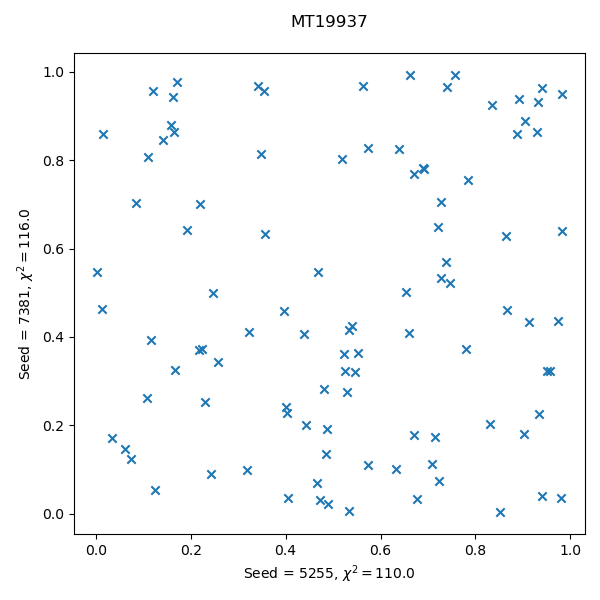
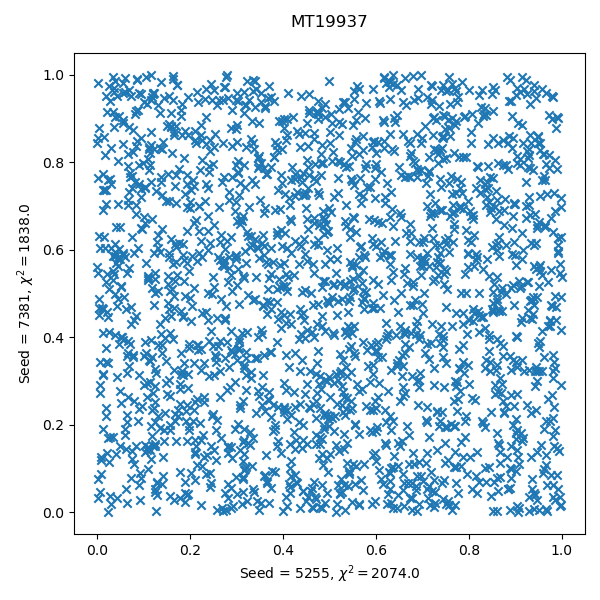
Increased sample size
Added pearson correlation coefficient calculations and graph

diff --git a/RNG_comp.py b/RNG_comp.py
@@ -35,29 +35,33 @@ timearr = np.zeros(5)
 rng = Generator(PCG64(seed=6))
 # Pseudo-random, uniform range between 0-1 with defined seed
 x1starttime = perf_counter()
-x1 = rng.uniform(0, 1, 100)
+x1 = rng.uniform(0, 1, 2000)
 x1endtime = perf_counter()
 timearr[0] = x1endtime-x1starttime
 x15 = np.roll(x1, 10)  # Move each value of x1 10 spaces along
-pcg64chi1 = chisquare_test(x1,100)
+pcg64chi1 = chisquare_test(x1,2000)
 
 # Bitgenerator PCG64 (default for numpy), with seed 15832
 rng = Generator(PCG64(seed=15832))
 # Pseudo-random, uniform range between 0-1 with defined seed
 x2starttime = perf_counter()
-x2 = rng.uniform(0, 1, 100)
+x2 = rng.uniform(0, 1, 2000)
 x2endtime = perf_counter()
 timearr[1] = x2endtime-x2starttime
 x25 = np.roll(x2, 10)
-pcg64chi2 = chisquare_test(x2,100)
-pcg64chi3 = chisquare_test(x15,100)
-pcg64chi4 = chisquare_test(x25,100)
+pcg64chi2 = chisquare_test(x2,2000)
+pcg64chi3 = chisquare_test(x15,2000)
+pcg64chi4 = chisquare_test(x25,2000)
+correl1 = np.around(np.correlate(x1, x15)[0],2)
+correl2 = np.around(np.correlate(x2, x25)[0],2)
+pearsoncoeff1 = np.around(np.corrcoef(x1,x15)[0,1],5)
+pearsoncoeff2 = np.around(np.corrcoef(x2,x25)[0,1],5)
 
 # Seed Comparison
 plt.figure(figsize=(6, 6))
 plt.scatter(x1, x2, marker='x')
-plt.xlabel('Seed = 6, $\u03C7^2 = {}$'.format(pcg64chi1))
-plt.ylabel('Seed = 15832, $\u03C7^2 = {}$'.format(pcg64chi2))
+plt.xlabel('Seed = 6, $\chi^2 = {}$'.format(pcg64chi1))
+plt.ylabel('Seed = 15832, $\chi^2 = {}$'.format(pcg64chi2))
 plt.title('PCG64\n')
 plt.tight_layout()
 plt.savefig(fname='IMAGES/PCG64-6-15832')
@@ -67,7 +71,8 @@ plt.figure(figsize=(6, 6))
 plt.scatter(x1, x15, marker='x')
 plt.xlabel('$x_n$')
 plt.ylabel('$x_{n+10}$')
-plt.title('PCG64, seed = 6\n Autocorrelation = {}, $\u03C7^2 = {}$'.format(np.correlate(x1, x15), pcg64chi1))
+plt.suptitle('PCG64, seed = 6')
+plt.title(r'Cross-correlation $\approx %1.2f$, $\chi^2 \approx %s, \rho_{XY}\approx %1.4f$' %(correl1, pcg64chi1, pearsoncoeff1), fontsize = 10)
 plt.tight_layout()
 plt.savefig(fname='IMAGES/PCG64-6')
 
@@ -76,7 +81,8 @@ plt.figure(figsize=(6, 6))
 plt.scatter(x2, x25, marker='x')
 plt.xlabel('$x_n$')
 plt.ylabel('$x_{n+10}$')
-plt.title('PCG64, seed = 15832\n Autocorrelation = {}, $\u03C7^2 = {}$'.format(np.correlate(x2, x25), pcg64chi2))
+plt.suptitle('PCG64, seed = 15832')
+plt.title(r'Cross-correlation $\approx %1.2f$, $\chi^2 \approx %s, \rho_{XY}\approx %1.4f$' %(correl2, pcg64chi2, pearsoncoeff2), fontsize = 10)
 plt.tight_layout()
 plt.savefig(fname='IMAGES/PCG64-15832')
 
@@ -88,17 +94,17 @@ plt.savefig(fname='IMAGES/PCG64-15832')
 rng = Generator(MT19937(6))
 # Pseudo-random, uniform range between 0-1 with defined seed
 y1starttime = perf_counter()
-y1 = rng.uniform(0, 1, 100)
+y1 = rng.uniform(0, 1, 2000)
 y1endtime = perf_counter()
 timearr[2] = y1endtime-y1starttime
-mt19937chi1 = chisquare_test(y1,100)
+mt19937chi1 = chisquare_test(y1,2000)
 
 # Different Generator - Same seed Comparison
 plt.figure(figsize=(6, 6))
 plt.scatter(x1, y1, marker='x')
-plt.xlabel('PCG64, seed = 6, $\u03C7^2 = {}$'.format(pcg64chi1))
-plt.ylabel('MT19937, seed = 6, $\u03C7^2 = {}$'.format(mt19937chi1))
-plt.title('PCG64-MT19937-6')
+plt.xlabel('PCG64, seed = 6, $\chi^2 = {}$'.format(pcg64chi1))
+plt.ylabel('MT19937, seed = 6, $\chi^2 = {}$'.format(mt19937chi1))
+plt.title('PCG64-MT19937-6\n')
 plt.tight_layout()
 plt.savefig(fname='IMAGES/PCG64-MT19937-6')
 
@@ -106,31 +112,35 @@ plt.savefig(fname='IMAGES/PCG64-MT19937-6')
 rng = Generator(MT19937(5255))
 # Pseudo-random, uniform range between 0-1 with defined seed
 y1starttime = perf_counter()
-y1 = rng.uniform(0, 1, 100)
+y1 = rng.uniform(0, 1, 2000)
 y1endtime = perf_counter()
 timearr[3]=y1endtime-y1starttime
 y15 = np.roll(y1, 10)
-mt19937chi1 = chisquare_test(y1,100)
+mt19937chi1 = chisquare_test(y1,2000)
 
 # Bitgenerator MT19937 (default for numpy), with seed 7381
 rng = Generator(MT19937(7381))
 # Pseudo-random, uniform range between 0-1 with defined seed
 y2starttime = perf_counter()
-y2 = rng.uniform(0, 1, 100)
+y2 = rng.uniform(0, 1, 2000)
 y2endtime = perf_counter()
 timearr[4] = y2endtime-y2starttime
 y25 = np.roll(y2, 10)
-mt19937chi2 = chisquare_test(y2,100)
-mt19937chi3 = chisquare_test(y15,100)
-mt19937chi4 = chisquare_test(y25,100) 
-# for validation that chi squared 
-#does not change with shifting values
+mt19937chi2 = chisquare_test(y2,2000)
+mt19937chi3 = chisquare_test(y15,2000)
+mt19937chi4 = chisquare_test(y25,2000) 
+correl3 = np.around(np.correlate(y1, y15)[0],2)
+correl4 = np.around(np.correlate(y2, y25)[0],2)
+pearsoncoeff3 = np.around(np.corrcoef(y1,y15)[0,1],5)
+pearsoncoeff4 = np.around(np.corrcoef(y2,y25)[0,1],5)
+
+
 
 # Seed Comparison
 plt.figure(figsize=(6, 6))
 plt.scatter(y1, y2, marker='x')
-plt.xlabel('Seed = 5255, $\u03C7^2 = {}$'.format(mt19937chi1))
-plt.ylabel('Seed = 7381, $\u03C7^2 = {}$'.format(mt19937chi2))
+plt.xlabel('Seed = 5255, $\chi^2 = {}$'.format(mt19937chi1))
+plt.ylabel('Seed = 7381, $\chi^2 = {}$'.format(mt19937chi2))
 plt.title('MT19937\n')
 plt.tight_layout()
 plt.savefig(fname='IMAGES/MT19937-5525-7381')
@@ -140,7 +150,8 @@ plt.figure(figsize=(6, 6))
 plt.scatter(y1, y15, marker='x')
 plt.xlabel('$x_n$')
 plt.ylabel('$x_{n+10}$')
-plt.title('MT19937, seed = 5255\n Autocorrelation = {}, $\u03C7^2 = {}$'.format(np.correlate(y1, y15), mt19937chi1))
+plt.suptitle('MT19937, seed = 5255')
+plt.title(r'Cross-correlation $\approx %1.2f$, $\chi^2 \approx %s, \rho_{XY}\approx %1.4f$' %(correl3, mt19937chi1, pearsoncoeff3), fontsize = 10)
 plt.tight_layout()
 plt.savefig(fname='IMAGES/MT19937-5255')
 
@@ -149,11 +160,13 @@ plt.figure(figsize=(6, 6))
 plt.scatter(y2, y25, marker='x')
 plt.xlabel('$x_n$')
 plt.ylabel('$x_{n+10}$')
-plt.title('MT19937, seed = 7381\n Autocorrelation = {}, $\u03C7^2 = {}$'.format(np.correlate(y2, y25), mt19937chi2))
+plt.suptitle('MT19937, seed = 7381')
+plt.title(r'Cross-correlation $\approx %1.2f$, $\chi^2 \approx %s, \rho_{XY}\approx %1.4f$' %(correl4, mt19937chi2, pearsoncoeff4), fontsize = 10)
 plt.tight_layout()
 plt.savefig(fname='IMAGES/MT19937-7381')
+print('\nTimes: \n PCG64-6 =', timearr[0]/1e-6,'µs\n', 'PCG64-15832 =', timearr[1]/1e-6,'µs\n', 'MT19937-6 =', timearr[2]/1e-6,'µs\n', 'MT19937-5255 =', timearr[3]/1e-6,'µs\n' ,'MT19937-7381 =', timearr[4]/1e-6,'µs\n')
 
-# Autocorrelation relation
+# Cross-correlation relation
 shift = np.arange(0,1000,1)
 
 rng = Generator(PCG64(2010))
@@ -161,27 +174,31 @@ rng = Generator(PCG64(2010))
 correlation1 = np.zeros(1000)
 pcg642010chi = np.zeros_like(correlation1)
 z1 = rng.uniform(0, 1, 1000)
+pearsoncoeff5 = np.zeros_like(correlation1)
 for i in range(1000):
     z15 = np.roll(z1, shift[i])
     correlation1[i] = np.correlate(z1,z15)
     pcg642010chi[i] = chisquare_test(z15,1000)
+    pearsoncoeff5[i] = np.around(np.corrcoef(z1,z15)[0,1],5)
 
 rng = Generator(MT19937(2010))
 # Pseudo-random, uniform range between 0-1 with defined seed
 correlation2 = np.zeros(1000)
 mt199372010chi = np.zeros_like(correlation2)
+pearsoncoeff6 = np.zeros_like(correlation2)
 z2 = rng.uniform(0, 1, 1000)
 for i in range(1000):
     z25 = np.roll(z2, shift[i])
     correlation2[i] = np.correlate(z2,z25)
     mt199372010chi[i] = chisquare_test(z25,1000)
+    pearsoncoeff6[i] = np.around(np.corrcoef(z2,z25)[0,1],5)
 
 wiggle1 = np.round(correlation1[1:1000].max()-correlation1.min(),2)
 wiggle2 = np.round(correlation2[1:1000].max()-correlation2.min(),2)
 std1 = np.round(np.std(correlation1[1:1000]),2)
 std2 = np.round(np.std(correlation2[1:1000]),2)
 
-fig,(ax1,ax2) = plt.subplots(2,1, sharex = True)
+fig,(ax1,ax2)= plt.subplots(2,1, sharex = True)
 ax1.plot(shift,correlation1)
 ax1.set_title("PCG64")
 ax1.text(shift[5],correlation1.max()-5, "Max = {}".format(np.round(correlation1.max(),2)))
@@ -194,21 +211,20 @@ ax2.hlines(np.mean(correlation2[1:1000]),0,1000,'r', '-.', label = "$\mu = {}$,\
 ax2.text(1002,250,"$\Delta$")
 fig.suptitle("Seed = 2010")
 ax2.set_xlabel("Shifted index $i$")
-fig.supylabel("Autocorrelation between $x_n~&~x_{n+i}$")
+fig.supylabel("Cross-correlation between $x_n~&~x_{n+i}$")
 ax1.legend()
 ax2.legend()
 plt.tight_layout()
 plt.savefig("IMAGES/Correlation-shift-comparison")
 
-plt.figure()
-plt.title('$\u03C7^2$ variation with index shift')
-plt.plot(shift,pcg642010chi,'--', label = 'PCG64 $\u03C7^2 = {}$'.format(pcg642010chi[0]))
-plt.plot(shift,mt199372010chi, '--', label = 'MT19937 $\u03C7^2 = {}$'.format(mt199372010chi[0]))
-plt.xlabel("Shifted index $i$")
-plt.ylabel("$\u03C7^2$")
-plt.ylim(950,1000)
-plt.legend()
-plt.tight_layout()
-plt.savefig("IMAGES/Chi-shift-comparison")
-
-print('\nTimes: \n PCG64-6 =', timearr[0]/1e-6,'µs\n', 'PCG64-15832 =', timearr[1]/1e-6,'µs\n', 'MT19937-6 =', timearr[2]/1e-6,'µs\n', 'MT19937-5255 =', timearr[3]/1e-6,'µs\n' ,'MT19937-7381 =', timearr[4]/1e-6,'µs\n')
+fig2,(ax1,ax2)= plt.subplots(2,1, sharex = True)
+ax1.plot(shift,pearsoncoeff5)
+ax1.set_title("PCG64")
+ax2.plot(shift,pearsoncoeff6)
+ax2.set_title("MT19937")
+fig2.suptitle("Seed = 2010")
+ax2.set_xlabel("Shifted index $i$")
+fig2.supylabel(r"$\rho_{XY}$ between $x_n~&~x_{n+i}$")
+ax1.legend()
+ax2.legend()
+plt.savefig("IMAGES/Pearson-shift-comparison")
